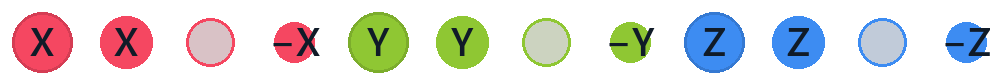
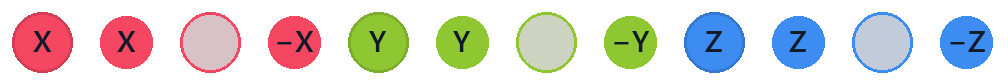
fix: 统一视口坐标系正负轴标签与拾取尺寸
正负轴共用 10 像素字号和 20 像素圆点，避免负轴标签越过圆环。
同步拾取半径，并增加字形边界与正负轴字号一致性的回归检查。

diff --git a/app/render/test/TestRenderWindowLifecycle.cpp b/app/render/test/TestRenderWindowLifecycle.cpp
@@ -7,6 +7,7 @@
 #include "ViewportOrientationRepresentation.h"
 
 #include <QGuiApplication>
+#include <QImage>
 #include <catch2/catch_test_macros.hpp>
 #include <vtkActor.h>
 #include <vtkActor2D.h>
@@ -19,6 +20,9 @@
 #include <vtkRenderWindowInteractor.h>
 #include <vtkTransform.h>
 #include <vtkWeakPointer.h>
+
+#include <algorithm>
+#include <array>
 
 namespace {
 QGuiApplication& testApplication()
@@ -272,7 +276,7 @@ TEST_CASE("Viewport orientation reuses its image for unchanged rotation and hove
     CHECK(image->GetScalarPointer() == pixels);
     // 正轴纹理和负轴圆环首帧即可见，验证嵌入资源确实加载。
     auto* positive = static_cast<unsigned char*>(image->GetScalarPointer(103, 60, 0));
-    auto* ring = static_cast<unsigned char*>(image->GetScalarPointer(14, 60, 0));
+    auto* ring = static_cast<unsigned char*>(image->GetScalarPointer(12, 60, 0));
     CHECK(positive[3] > 200);
     CHECK(positive[0] > positive[1]);
     CHECK(ring[3] > 100);
@@ -293,4 +297,42 @@ TEST_CASE("Viewport orientation reuses its image for unchanged rotation and hove
     window->SetSize(0, 0);
     CHECK_FALSE(orientation->containsPoint(98, 60));
     CHECK(orientation->ComputeInteractionState(98, 60, 1) == static_cast<int>(vtkCameraOrientationRepresentation::InteractionStateType::Outside));
+}
+
+TEST_CASE("Viewport orientation atlas keeps every label inside its round handle")
+{
+    testApplication();
+    const QImage atlas(QStringLiteral(":/orientation/assets/orientation-handles.png"));
+    REQUIRE_FALSE(atlas.isNull());
+    constexpr int scale = 3;
+    constexpr int cell_pixels = 28 * scale;
+    REQUIRE(atlas.size() == QSize(12 * cell_pixels, cell_pixels));
+    std::array<int, 12> label_heights {};
+    for (int column = 0; column < 12; ++column) {
+        const int direction = column % 4 / 2;
+        const bool hovered = column % 2;
+        const double radius = 9.0 * scale;
+        int label_pixels = 0;
+        int first_y = cell_pixels;
+        int last_y = -1;
+        for (int y = 0; y < cell_pixels; ++y) {
+            for (int x = 0; x < cell_pixels; ++x) {
+                const QColor color = atlas.pixelColor(column * cell_pixels + x, y);
+                // 只统计不透明的深色字形，排除圆环和半透明负轴背景。
+                if (color.alpha() < 200 || color.red() > 20 || color.green() > 31 || color.blue() > 44)
+                    continue;
+                ++label_pixels;
+                first_y = (std::min)(first_y, y);
+                last_y = (std::max)(last_y, y);
+                const double dx = x + 0.5 - cell_pixels / 2.0;
+                const double dy = y + 0.5 - cell_pixels / 2.0;
+                INFO("atlas column=" << column << ", pixel=" << x << "," << y);
+                CHECK(dx * dx + dy * dy <= radius * radius);
+            }
+        }
+        CHECK((label_pixels > 0) == (direction == 0 || hovered));
+        label_heights[column] = last_y - first_y + 1;
+    }
+    for (int axis = 0; axis < 3; ++axis)
+        CHECK(label_heights[axis * 4 + 1] == label_heights[axis * 4 + 3]);
 }

diff --git a/app/render/ViewportOrientationRepresentation.cpp b/app/render/ViewportOrientationRepresentation.cpp
@@ -20,8 +20,7 @@ namespace {
 constexpr double kCanvasSize = 120.0;
 constexpr double kCenter = kCanvasSize / 2;
 constexpr double kAxisLength = 38.0;
-constexpr double kPositiveRadius = 10.0;
-constexpr double kNegativeRadius = 8.0;
+constexpr double kHandleRadius = 10.0;
 constexpr double kHoverRadius = 54.0;
 constexpr double kSpriteSize = 28.0;
 constexpr int kSpritePixels = 84;
@@ -190,7 +189,7 @@ int ViewportOrientationRepresentation::ComputeInteractionState(int x, int y, int
     if (GetInteractionStateAsEnum() != InteractionStateType::Outside) {
         updateProjection();
         for (auto it = impl_->handles.rbegin(); it != impl_->handles.rend(); ++it) {
-            const double radius = (it->direction == 0 ? kPositiveRadius : kNegativeRadius) + 3.0;
+            const double radius = kHandleRadius + 3.0;
             const auto delta = point - it->center;
             if (delta.x() * delta.x() + delta.y() * delta.y() <= radius * radius) {
                 PickedAxis = it->axis;

diff --git a/app/render/assets/generate_orientation_atlas.py b/app/render/assets/generate_orientation_atlas.py
@@ -5,7 +5,8 @@ from PIL import Image, ImageDraw, ImageFont
 SCALE = 3
 CELL = 28
 COLORS = [(245, 71, 97), (143, 199, 51), (61, 140, 242)]
-FONT = ImageFont.truetype("C:/Windows/Fonts/seguisb.ttf", 13 * SCALE)
+# 正负轴共用字号和圆点尺寸，完整负轴标签也能留在圆环内。
+FONT = ImageFont.truetype("C:/Windows/Fonts/seguisb.ttf", 10 * SCALE)
 atlas = Image.new("RGBA", (CELL * SCALE * 12, CELL * SCALE))
 
 for axis, color in enumerate(COLORS):
@@ -13,7 +14,7 @@ for axis, color in enumerate(COLORS):
         for hovered in range(2):
             image = Image.new("RGBA", (CELL * SCALE, CELL * SCALE))
             draw = ImageDraw.Draw(image)
-            radius = (10 if direction == 0 else 8) * SCALE
+            radius = 10 * SCALE
             center = CELL * SCALE / 2
             bounds = (center - radius, center - radius, center + radius, center + radius)
             if direction == 0 or hovered:
